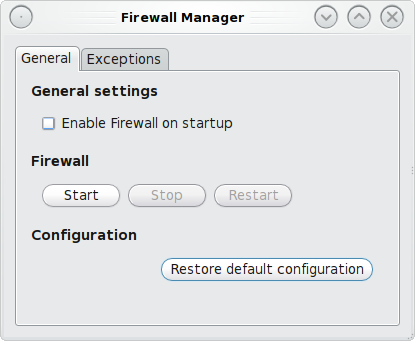
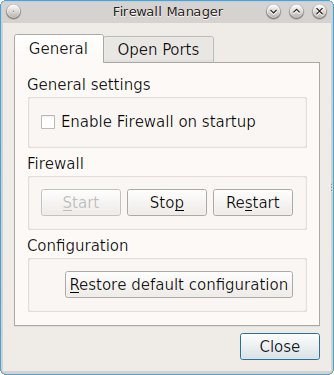
Update Firewall Manager section.

Changed region(s): [[0.0, 0.0, 1.0, 1.0], [0.9281, 0.1466, 0.9581, 0.176], [0.6287, 0.1466, 0.6587, 0.176]]

diff --git a/docs/controlpanel.rst b/docs/controlpanel.rst
@@ -1758,16 +1758,14 @@ window manager so you may need to do an Internet search if you need to set that 
 Firewall Manager
 ================
 
-PC-BSD® uses the `PF firewall <http://www.openbsd.org/faq/pf/>`_ to protect your system. By default, the firewall is configured to let your system make
-Internet connections, use the :command:`ping` utility, and to communicate with other Windows and Unix-like systems using SMB and NFS.
+PC-BSD® uses the `IPFW firewall <http://www.freebsd.org/cgi/man.cgi?query=ipfw>`_ to protect your system. By default, the firewall is configured to allow all
+outgoing connections, but to deny all incoming connection requests. The default rulebase is located in :file:`/etc/ipfw.rules`. Use the Firewall Manager GUI
+utility to view and modify the existing firewall rules.
 
-Advanced users who are already familiar with pf will find the default rulebase in :file:`/etc/pf.conf`. Users who are not familiar with directly editing this
-file can instead use the Firewall Manager GUI utility to view and modify the existing firewall rules.
+.. note:: typically it is not necessary to change the firewall rules. You should only add rules if you understand the security implications of doing so,
+   as any custom rules will be used to allow connections to your computer.
 
-.. note:: typically it is not necessary to change the firewall rules. You should not remove any existing rules unless you fully understand what the rule does.
-   Similarly, you should only add rules if you understand the security implications of doing so, especially if the rule allows connections to your computer.
-
-To access the Firewall Manager, go to :menuselection:`Control Panel --> Firewall Manager` or type :command:`pc-su pc-pfmanager`. You will be prompted to input
+To access the Firewall Manager, go to :menuselection:`Control Panel --> Firewall Manager` or type :command:`pc-su pc-fwmanager`. You will be prompted to input
 your password. Figure 8.16a shows the initial screen when you launch this utility.
 
 **Figure 8.16a: Firewall Manager Utility** 
@@ -1776,41 +1774,29 @@ your password. Figure 8.16a shows the initial screen when you launch this utilit
 
 The "General Settings" tab of this utility allows you to: 
 
-* determine whether or not the firewall starts when the system boots; unless you have a reason to do so and understand the security implications, this box
-  should be so that your system is protected by the firewall 
+* Determine whether or not the firewall starts when the system boots. Unless you have a reason to do so and understand the security implications, the
+  "Enable Firewall on startup" box should be checked so that your system is protected by the firewall.
 
-* start, stop, or restart the firewall: if you add, delete, or modify a firewall rule, restart the firewall for your changes to take effect 
+* "Start", "Stop", or "Restart" the firewall.
 
-* restore default configuration: this button allows you to return to the original, working configuration should you not like the changes you make to your
-  firewall rules 
+* The "Restore Default Configuration" button allows you to return to the original, working configuration.
 
-To view or modify the firewall rules, click :menuselection:`Exceptions --> Add entry` to open the screen shown in Figure 8.16b.
+To add or delete custom firewall rules, click the "Open Ports" tab to open the screen shown in Figure 8.16b. Note that your custom rules will allow
+**incoming** connections on the specified protocol and port number.
 
 **Figure 8.16b: Adding a New Firewall Rule** 
 
 .. image:: images/firewall2.png
 
-The following information is needed when creating a rule: 
+Any rules that you create will appear in this screen. To add a rule, input the port number to open. By default, "tcp" is selected. If the rule is for the
+UDP protocol, click the "tcp" drop-down menu and select "udp". Once you have the protocol and port number selected, click the "Open Port" button to add the
+new rule to your custom list.
 
-* **Service or Port:** you can either select the name of the service you wish to allow or block from the drop-down menu or type in the number of the port used
-  by the service. Which you choose does not matter as the firewall will match the name and number for you and display both after you save the rule. By
-  default, the name “Custom” is selected for you and you only need to enter the port number.
+If you have created any custom rules and wish to delete one, highlight the rule to delete and click the "Close Selected Ports" button to remove it from
+the custom rules list.
 
-* **Policy:** you need to choose whether to allow or block this service/port.
-
-* **Direction:** use the drop-down menu to determine whether the policy applies to incoming or outgoing connections. The direction is from the perspective of
-  your computer: do you want others to connect to your service (incoming) or do you want to connect to the service running on another system (outgoing).
-
-* **Protocol:** use the drop-down menu to select whether the service uses the TCP or UDP protocol.
-
-* **Interface:** use the drop-down menu to select the interface that will make or receive the connection.
-
-Once you have made your selections, press "Ok" to save the new rule.
-
-.. note:: the new rule will not be used by the firewall until the firewall is restarted by clicking the "Restart" button in the "General" tab.
-
-Test that your new rule(s) work as expected. For example, if you create a rule to allow an SSH connection, try connecting to your PC-BSD® system using
-:command:`ssh` to verify that the firewall is now allowing the connection.
+Whenever you create a custom rule, test that your new rule works as expected. For example, if you create a rule to allow an SSH connection, try connecting
+to your PC-BSD® system using :command:`ssh` to verify that the firewall is now allowing the connection.
 
 .. index:: network
 .. _Network Configuration:

diff --git a/docs/introduction.rst b/docs/introduction.rst
@@ -178,7 +178,7 @@ What's New in 10.1.2
 
 The following features or enhancements were introduced for PC-BSD® 10.1.2:
 
-
+* IPFW is now the default firewall. :ref:`Firewall Manager` has been redesigned to use IPFW and its UI has been simplified to make it easier to use.
 
 .. index:: Linux
 .. _PC-BSD® for Linux Users:
